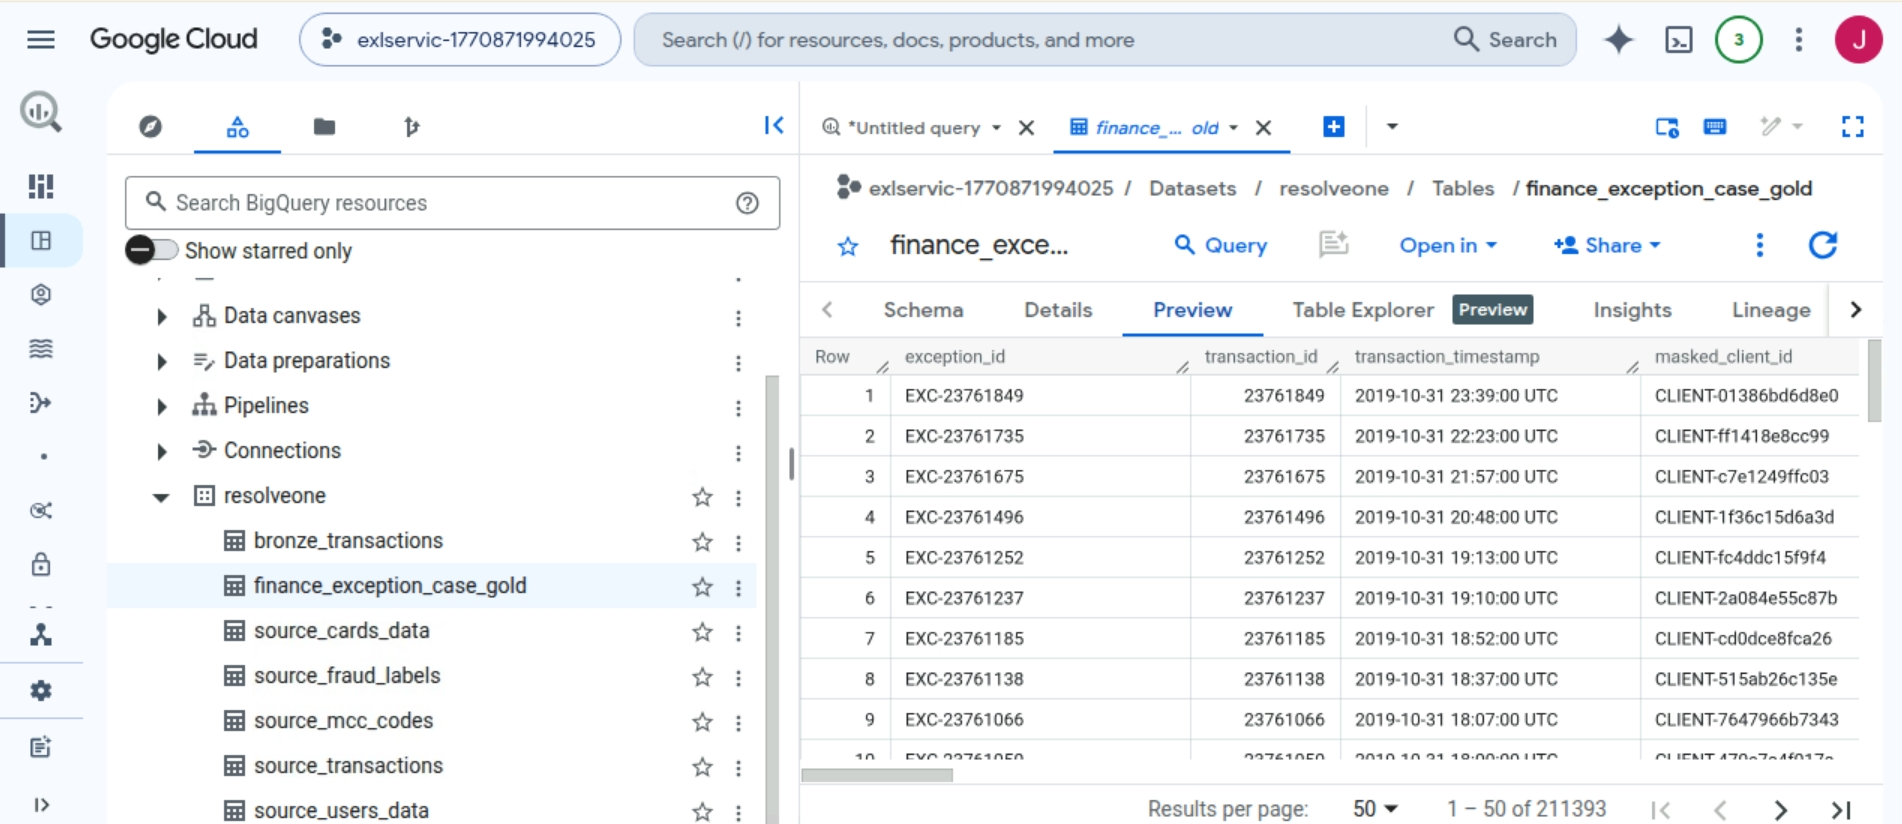
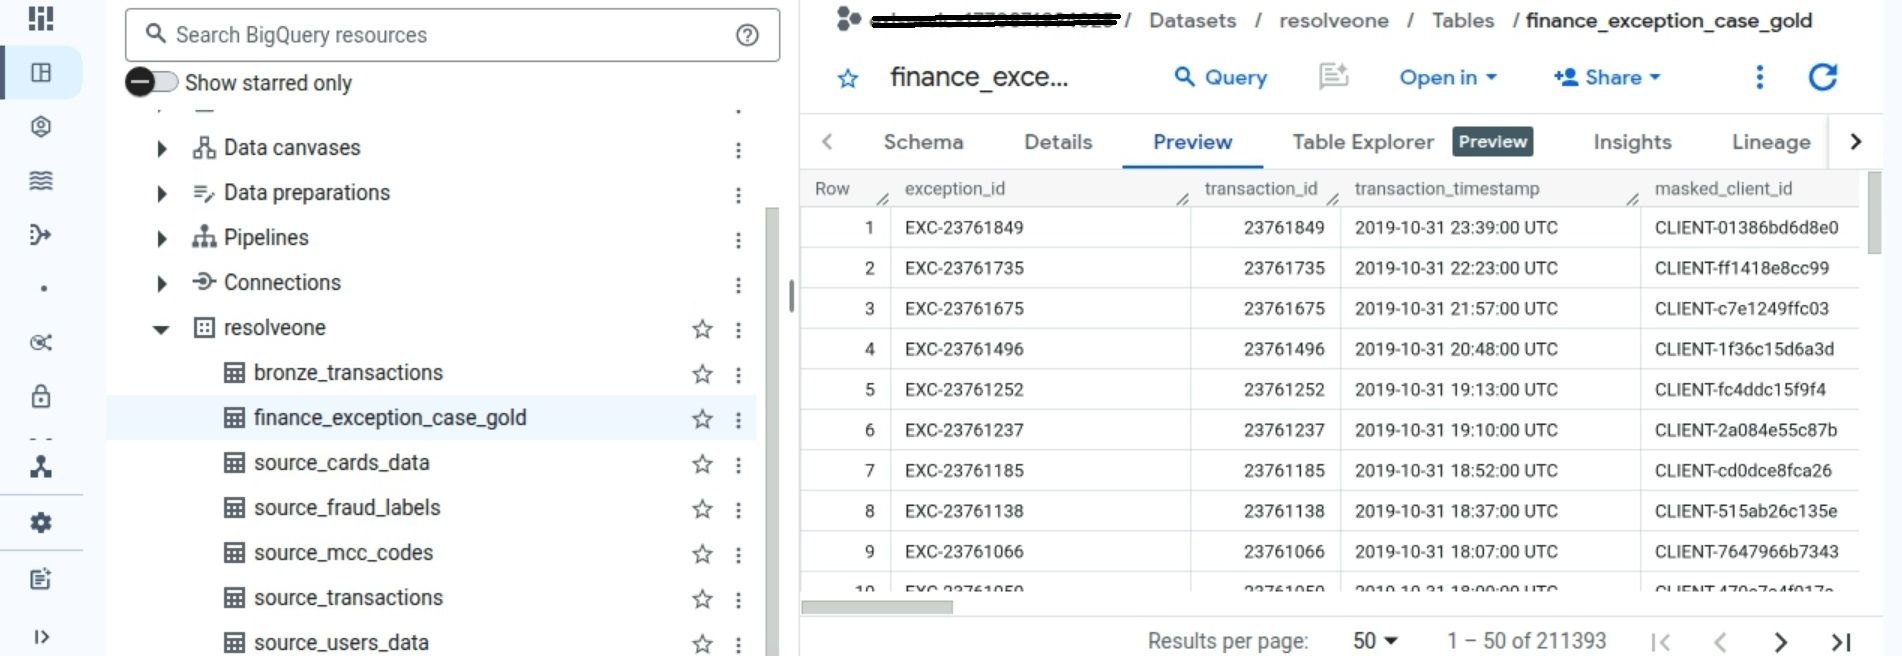
fix: use env config for BigQuery

diff --git a/scripts/bigquery_correct.py b/scripts/bigquery_correct.py
@@ -1,9 +1,20 @@
 #!/usr/bin/env python3
+import os
 import sys
 from google.cloud import bigquery
 
-PROJECT_ID = "exlservic-1770871994025"
-DATASET_ID = "resolveone"
+
+PROJECT_ID = os.environ.get("GCP_PROJECT_ID", "").strip()
+DATASET_ID = os.environ.get("BQ_DATASET_ID", "resolveone").strip()
+
+if not PROJECT_ID:
+    raise SystemExit(
+        "GCP_PROJECT_ID is required. Set it in the environment using the name "
+        "documented in .env.example."
+    )
+
+if not DATASET_ID:
+    raise SystemExit("BQ_DATASET_ID cannot be empty.")
 
 def run_query(client, query, desc):
     print(f"\n{'='*70}\n⏳ {desc}\n{'='*70}")
@@ -141,5 +152,8 @@ FROM `{PROJECT_ID}.{DATASET_ID}.finance_exception_case_gold`;
 """, "STEP 5: Validate masked IDs") or 0
 
 print(f"\n{'='*70}\n✅ COMPLETED: {success}/5 steps\n{'='*70}")
-print("\nNext: python scripts/validate_gold.py --source bigquery --project exlservic-1770871994025")
+print(
+    "\nNext: python scripts/validate_gold.py "
+    f"--source bigquery --project {PROJECT_ID}"
+)
 sys.exit(0 if success == 5 else 1)
